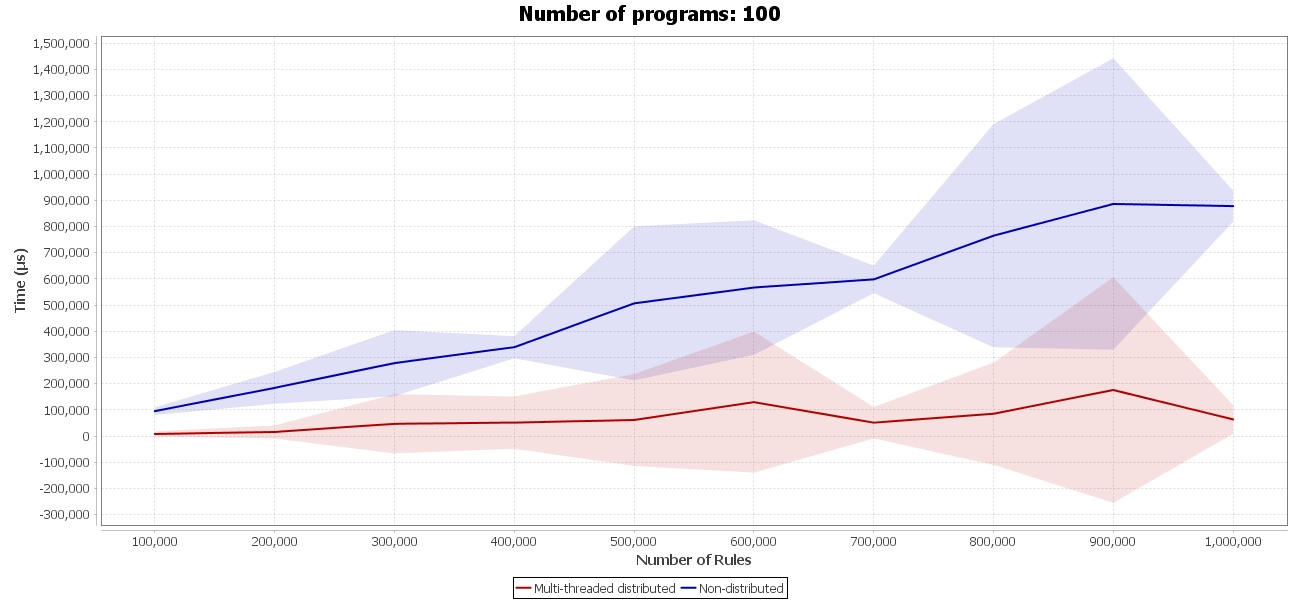
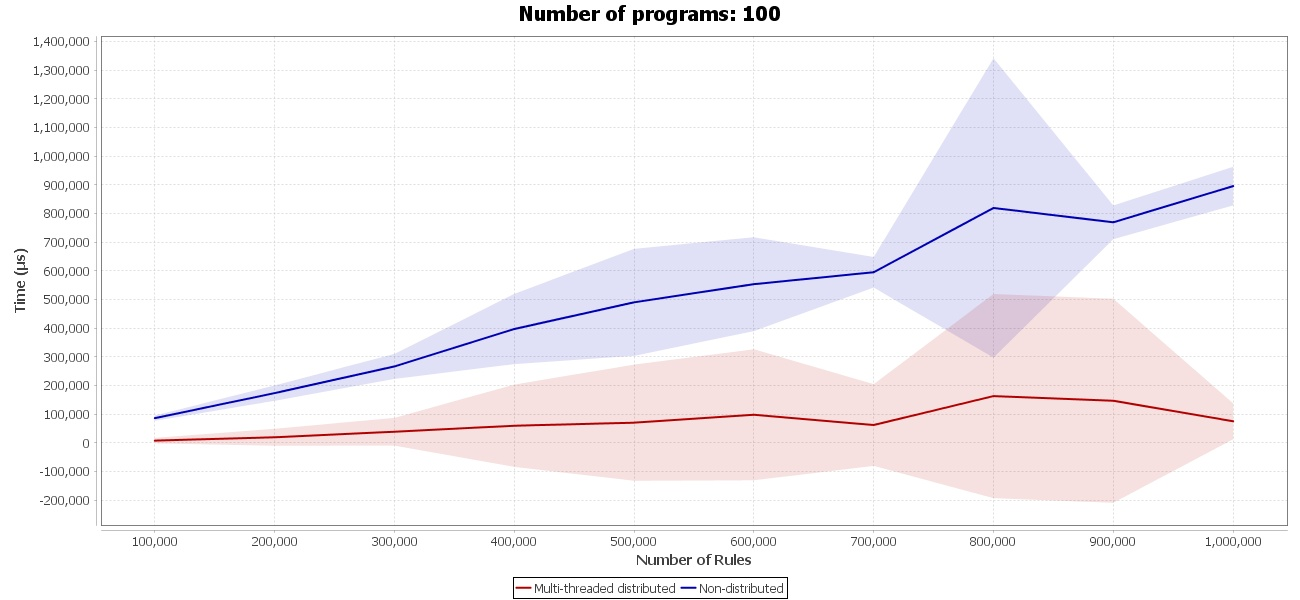
- este raz vygenerovane grafy pre zoskupovane mnoziny

diff --git a/src/main/java/main/NajmensiModel2.java b/src/main/java/main/NajmensiModel2.java
@@ -23,14 +23,15 @@ public class NajmensiModel2 {
 
         int[] rulesCnt = new int[]{100000, 200000, 300000, 400000, 500000, 600000, 700000, 800000, 900000, 1000000};
 
-//        Statistics.measure(rulesCnt, ProgramGenerator::generateSeparated);
-//        Statistics.makeGraph();        
-//
-//        Statistics.measure(rulesCnt, ProgramGenerator::generateChained);
-//        Statistics.makeGraph();
-//
+        Statistics.measure(rulesCnt, ProgramGenerator::generateSeparated);
+        Statistics.makeGraph();        
+
         Statistics.measure(rulesCnt, ProgramGenerator::generateSequential);
         Statistics.makeGraph();
+
+        Statistics.measure(rulesCnt, ProgramGenerator::generateChained);
+        Statistics.makeGraph();
+
     }
 
 }
